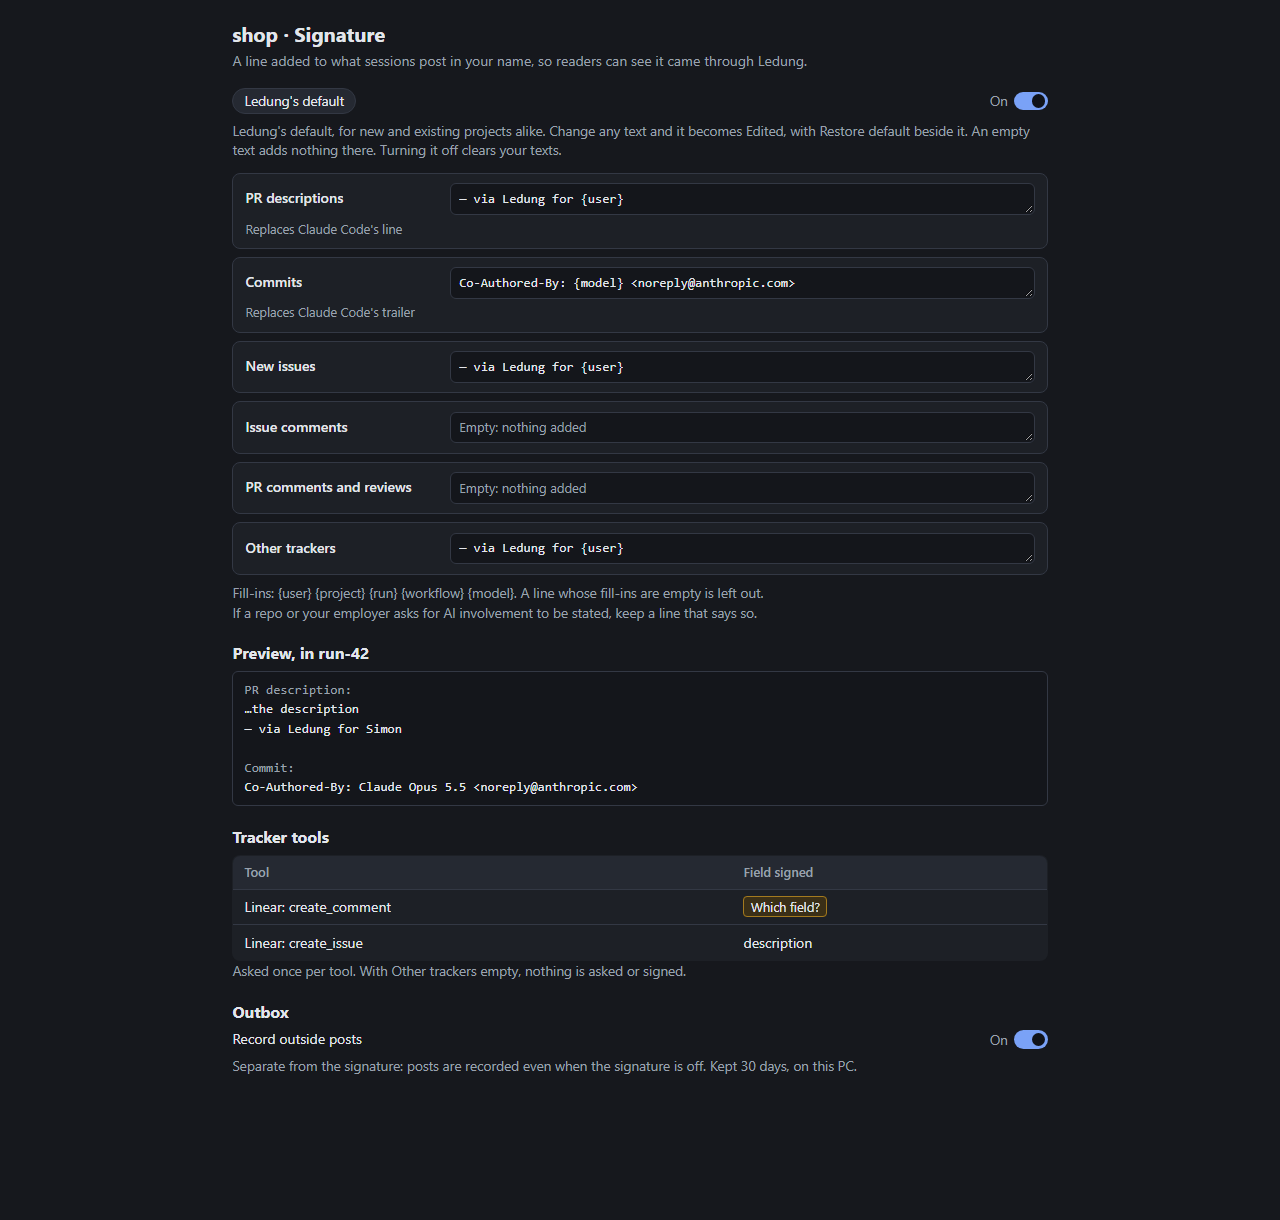
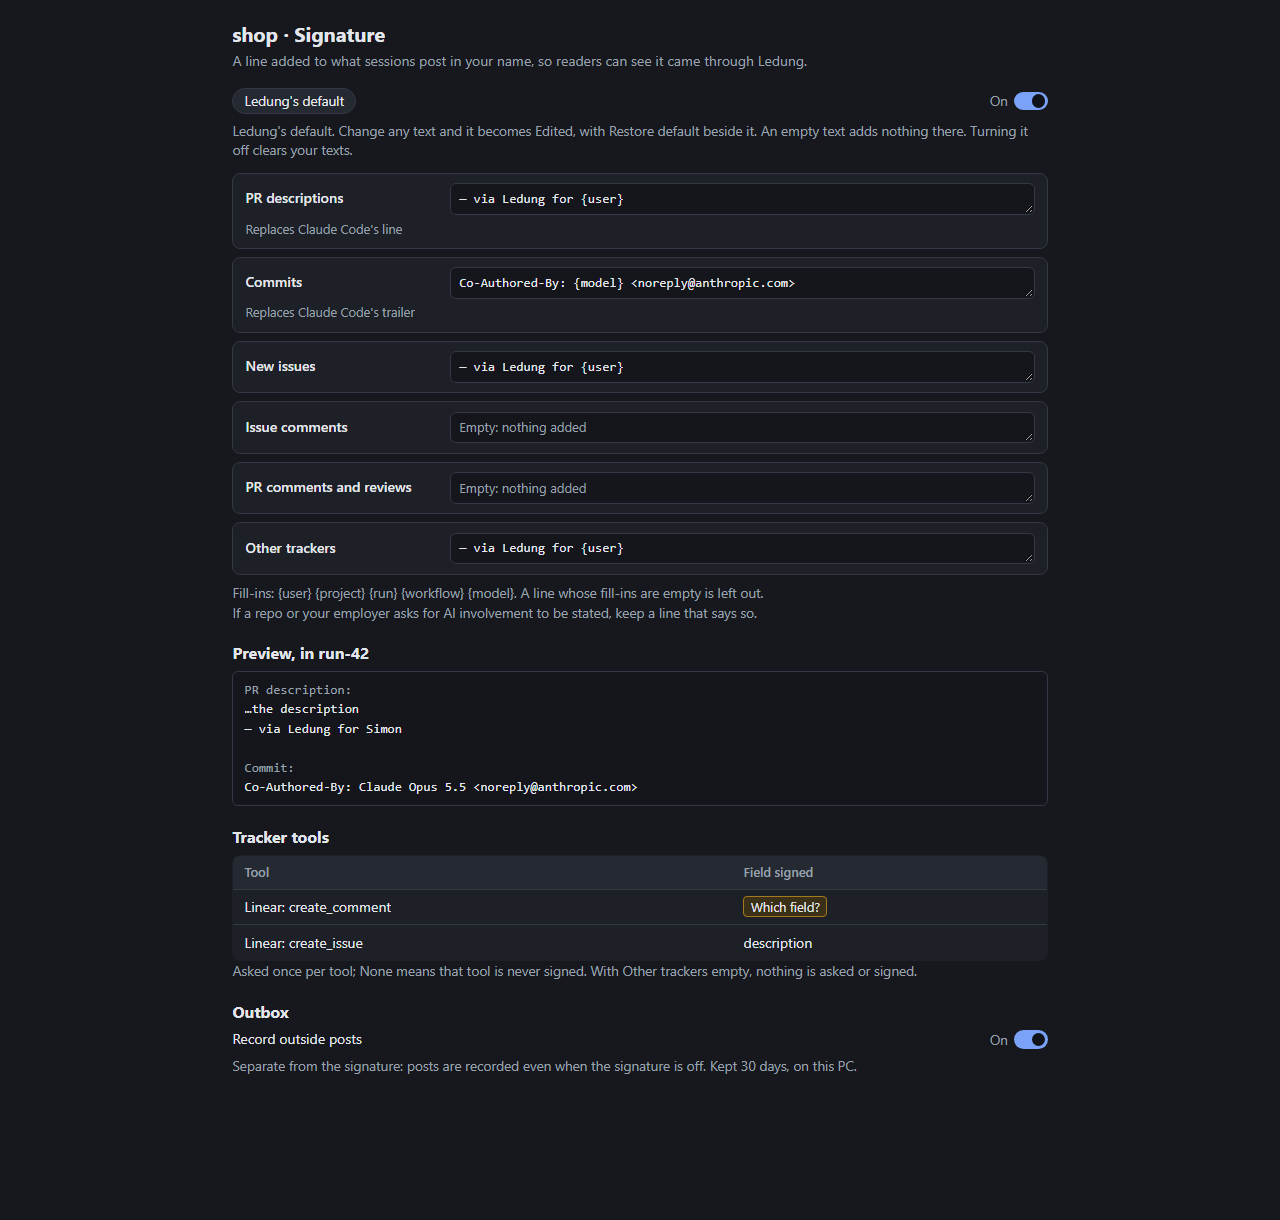
Design #513: open choice 6 removed, one rule for projects without a setting
The manager's final revision for Simon's two decisions: open choice 6
removed and the rest renumbered; existing and new projects no longer
handled apart (a project with no setting uses Ledung's default); the
design says every project's PRs and new issues get Ledung's line after
the update, and a project that shouldn't is switched Off or edited;
a tracker tool's "None" means never signed. Settings mock-up and the
1280 and 390 px screenshots retaken (dark).

Changelog: none

Changed region(s): [[0.25, 0.0934, 0.8125, 0.1246], [0.2812, 0.7787, 0.7188, 0.8098], [0.1875, 0.0934, 0.2188, 0.1246]]

diff --git a/docs/steps/project-signature/settings-mock.html b/docs/steps/project-signature/settings-mock.html
@@ -51,7 +51,7 @@ body.off .place { opacity:.5; }
 <p class="sub">A line added to what sessions post in your name, so readers can see it came through Ledung.</p>
 
 <div class="top"><span class="state">Ledung's default</span><span class="switch"><span class="onoff">On</span><span class="track"></span></span></div>
-<p class="hint onlyon">Ledung's default, for new and existing projects alike. Change any text and it becomes Edited, with Restore default beside it. An empty text adds nothing there. Turning it off clears your texts.</p>
+<p class="hint onlyon">Ledung's default. Change any text and it becomes Edited, with Restore default beside it. An empty text adds nothing there. Turning it off clears your texts.</p>
 <p class="hint offnote">Off: no signature anywhere, Claude Code's lines included. Turning it on fills in Ledung's default.</p>
 
 <div class="place"><label>PR descriptions</label><textarea rows="1">— via Ledung for {user}</textarea><span class="why">Replaces Claude Code's line</span></div>
@@ -75,7 +75,7 @@ Commit:
 <tr><td>Linear: create_comment</td><td><span class="wait">Which field?</span></td></tr>
 <tr><td>Linear: create_issue</td><td>description</td></tr>
 </tbody></table>
-<p class="hint">Asked once per tool. With Other trackers empty, nothing is asked or signed.</p>
+<p class="hint">Asked once per tool; None means that tool is never signed. With Other trackers empty, nothing is asked or signed.</p>
 </div>
 <h2>Outbox</h2>
 <div class="top keep"><span>Record outside posts</span><span class="switch"><span>On</span><span class="track keep"></span></span></div>

diff --git a/docs/steps/project-signature.md b/docs/steps/project-signature.md
@@ -18,7 +18,7 @@ In conversation with the manager, relayed with his words; they go into `docs/dec
 - **One preset, Ledung's, and a text per place:** "for the presets. Let's just have the Ledung preset, and it's editable to turn into custom. With some way to restore it to the default. With a small off somehow that disables the signature and erases the text in the box." (Later on Nov 27; this replaces the earlier Claude Code standard · Ledung standard · None · Custom.) An empty text means nothing in that place.
 - **Ledung's texts replace Claude Code's lines completely, and nothing is hardcoded:** "we're replacing it with a per project signature that the user can change." Both Claude Code lines come from the project's texts. "The co-authored by claude should work the same way, unless that steps on any of Anthropic's licence thingies. If the user wants to have it there, they can have it in the signature; otherwise they can change it." (Earlier, question #2434: "We should override Claude Code's signature.") What Anthropic's terms say is under "Anthropic's terms" below.
 - **Off is off:** "If switched off, it should be off." Off means no line anywhere, Claude's included.
-- **Every project gets Ledung's default, existing ones too:** on what was open choice 6, "I want it to go to Ledung's standard." This reverses the earlier "existing projects should remain as is, new projects use a Ledung standard" (which had replaced defaults by repo visibility).
+- **Every project gets Ledung's default, existing ones too:** on how existing projects should look, "I want it to go to Ledung's standard." This reverses the earlier "existing projects should remain as is, new projects use a Ledung standard" (which had replaced defaults by repo visibility).
 - **Other trackers get the same default line:** "I think that box should have the same Ledung default", so `— via Ledung for {user}`, still asked once per tool and project which field gets it.
 - **The Outbox records every outside post:** "I like the outbox changes we mentioned", about the manager's proposal: its own per-project setting, on by default, separate from the signature; the stand-in always there; tracker writes and board posts included; one line on what it can't see; local, 30 days.
 - **No `Ledung-Run` trailer:** "Drop it." (15:42, on the manager's recommendation). It only linked a commit to a run inside this Ledung, which outsiders can't open, and would sit in every Ledung user's run commits. Anyone who wants it can type `Ledung-Run: {run}` into their commit text.
@@ -69,13 +69,13 @@ It puts Ledung's line on PRs, new issues and other trackers' posts, and keeps th
 
 - **Default:** the texts are exactly Ledung's default. The section says "Ledung's default".
 - **Edited:** any change to any text makes the section say "Edited" (Simon's "custom"). Nothing else changes; the texts are simply what is saved. **Restore default** puts Ledung's default back in every box, after a "Replace your texts with Ledung's default?" confirmation, and is only shown while the texts are edited.
-- **Off:** a small switch at the top of the section. Switching it off empties every box and greys them out, and saves that: **no line anywhere**, no Ledung line, no Claude line, no marker, no tracker question. The Outbox still records: it is its own setting. The edited texts are not kept (Simon: "erases the text in the box"), so the switch says "Turning it off clears your texts." **Switching it on again** fills the boxes with Ledung's default (open choice 7).
+- **Off:** a small switch at the top of the section. Switching it off empties every box and greys them out, and saves that: **no line anywhere**, no Ledung line, no Claude line, no marker, no tracker question. The Outbox still records: it is its own setting. The edited texts are not kept (Simon: "erases the text in the box"), so the switch says "Turning it off clears your texts." **Switching it on again** fills the boxes with Ledung's default (open choice 6).
 
 There is no Claude Code preset and no None preset: Off is the None, and Claude's own lines are just text a person can type into the boxes.
 
 **Fill-ins:** `{user}` (Ledung's user name), `{project}` (the project's name), `{run}` (`run-179`), `{workflow}` (the flow's name) and `{model}` (the session's model as Claude Code names it, `Claude Opus 5.5`). Outside a run, the run fill-ins are empty, and a line left empty by them is dropped. Ledung's default no longer uses `{run}` or `{workflow}`; they stay as fill-ins because they cost nothing and a person may want them in their own text, though a reader outside this Ledung can't open a run. Only these five exist: session titles, folder paths, account names and anything else private can't be put in a signature, because there is no fill-in for them. Every text is checked against the project's sensitive patterns on save, as board posts are. (`{steps}` went with the PR summary.)
 
-**Existing and new projects alike:** a project with no signature setting (every project that exists today, one made with New project or the Ledung Helper, one added to the config by hand) uses Ledung's default, and its section says "Ledung's default". Nothing is written to its settings until the person edits a text or switches Off. (So a later change to Ledung's default reaches the projects still on it, and only those.) With the trackers text set by default, each project's first use of a tracker's write tool now brings the one-time field question. So from the release that ships part 1, every project's PRs end with `— via Ledung for {user}` instead of Claude Code's "Generated with" line, and its commits carry the default trailer as Ledung sets it. The changelog bullet says so plainly, because it changes what existing projects post.
+**A project with no signature setting uses Ledung's default:** every project that exists today, one made with New project or the Ledung Helper, and one added to the config by hand. Its section says "Ledung's default", and nothing is written to its settings until the person edits a text or switches Off, so a later change to Ledung's default reaches the projects still on it. **After the update, every project's PRs and new issues get Ledung's line instead of Claude's**, and commits the default trailer as Ledung sets it; a project that shouldn't carry the line is switched Off or has its texts edited. The changelog bullet says so plainly. With the trackers text set by default, each project's first use of a tracker's write tool brings the one-time field question.
 
 **Where the settings live: the project's settings, not the workflow.** Whether and how a project signs is about the repo and who reads it, and it applies to work outside a run too. Saved like the other project settings, in the project's part of the config, so a work project's text can stay in `ledung.config.local.json`. A change reaches PR descriptions and commits for sessions started or resumed afterwards (Claude Code takes those at the start; part 1 checks whether a running session can be updated), and everything else on the next call.
 
@@ -135,7 +135,7 @@ Ledung's existing hook gets one more step for `mcp__*` tools of servers that are
 
 - **Which tools count as writes:** those not marked `readOnly` in the server's own tool list (`mcpServerStatus()`, which gives name, description and annotations, but no input schema), whose name or description says create, add, post, comment, reply, update, edit or delete. The same list decides both recording and signing.
 - **Recording, whatever the signature says:** a `PostToolUse` step writes a journal line for every such call while the project records: server, tool, the target's id, any URL found in the result, whether it was signed, the time. No body is kept.
-- **Signing, only when the other-trackers text isn't empty**, and only for a write tool with at least one string field. The first call of such a tool in a project goes through **unsigned**. The project's settings get a waiting item, with a small badge on the project: "Linear: create_comment. Which field gets the signature?", offering the call's string fields (`body`, `title`, …) and "None". The answer is kept per project and tool. Every later call has the text added to that field as the call passes (`PreToolUse`, the check-1 mechanism), and the server's own sign-in is untouched. See open choice 1 for asking during the call instead.
+- **Signing, only when the other-trackers text isn't empty**, and only for a write tool with at least one string field. The first call of such a tool in a project goes through **unsigned**. The project's settings get a waiting item, with a small badge on the project: "Linear: create_comment. Which field gets the signature?", offering the call's string fields (`body`, `title`, …) and "None", which means that tool is never signed. The answer is kept per project and tool. Every later call has the text added to that field as the call passes (`PreToolUse`, the check-1 mechanism), and the server's own sign-in is untouched. See open choice 1 for asking during the call instead.
 - **Fitting into the hook chain:** the signed input is worked out first. Every `allow` the chain returns afterwards (grants, rules, away mode) carries it as `updatedInput`, and an "ask" carries it too, so the person approves the signed text. A refusal stays a refusal. A signature is never added to a call that Ledung or the person would refuse, and a refused call isn't recorded, because nothing went out.
 - A failure in either step lets the call go through as it was, unsigned and unrecorded, with the reason in the journal.
 
@@ -194,7 +194,7 @@ Each part is its own PR, reviewed and approved on its own. Part 1 comes first: i
 
 | # | Part | Done when | Session time | Plan use |
 |---|---|---|---|---|
-| 1 | **Settings, Ledung's default and Claude Code's lines:** the Signature section (a text per place, Default / Edited, Restore default, the Off switch that empties the boxes, fill-ins with `{model}`, preview, sensitive check), Ledung's default for every project without a setting, existing ones included, `attribution` per session, the journal file. | First the two checks under "PR descriptions and commits". Then, in a throwaway Ledung with Haiku: a project that existed before (no signature setting) and a new one both get Ledung's default: the PR ends with `— via Ledung for …` and no Claude line, and the commit carries `Co-Authored-By: Claude Haiku …` and nothing else, with no setting written to the config; switched Off, neither has any line and the boxes are empty; an edited text shows up as typed; Restore default brings back the default texts. The person's own Claude Code settings file is unchanged. Settings work at 390 px. | 60–90 min | medium: one build session plus review |
+| 1 | **Settings, Ledung's default and Claude Code's lines:** the Signature section (a text per place, Default / Edited, Restore default, the Off switch that empties the boxes, fill-ins with `{model}`, preview, sensitive check), Ledung's default for every project without a setting, `attribution` per session, the journal file. | First the two checks under "PR descriptions and commits". Then, in a throwaway Ledung with Haiku: a project with no signature setting gets Ledung's default: the PR ends with `— via Ledung for …` and no Claude line, and the commit carries `Co-Authored-By: Claude Haiku …` and nothing else, with no setting written to the config; switched Off, neither has any line and the boxes are empty; an edited text shows up as typed; Restore default brings back the default texts. The person's own Claude Code settings file is unchanged. Settings work at 390 px. | 60–90 min | medium: one build session plus review |
 | 2 | **The stand-in `gh`** (local sessions): on `PATH` in every local session, recording the listed commands and writing `gh api` calls, signing the four commands from all three body sources when a text applies, the marker and its check, the silent fallback, journal lines. | Tests cover each command and body source, pass-through (same output and exit code) for the everyday `gh` calls, a recorded-only call passing unchanged, `pr create` and edits left unsigned, `gh api` reads not recorded, and the fallback (missing session file, broken `gh.mjs`, Node not starting, journal not writable). A throwaway Ledung on Windows signs a real issue and comment in a throwaway repo from Git Bash; a repeated post isn't signed twice. One run on a Mac. | ≈ 105 min | medium |
 | 3 | **Other trackers:** picking out write tools, recording every write (`PostToolUse`), the one-time field question, the signing step and how it fits the chain, the repeat check without a marker. | The check-1 tracker server, under a throwaway Ledung, asks once and signs every later call. A read-only tool is never touched. A refused call stays refused. A repeated call isn't signed twice. With Ledung's default, the signed field gets `— via Ledung for …`. With an empty trackers text, nothing is asked or signed, but writes are still recorded. | 60–90 min | medium |
 | 4 | **Outbox:** database entry, Ledung's board posts added, the 30-day trim, list, filters, the Signed column, the line on what it can't see, the page at both widths. | It lists parts 2–3's posts and the board's, signed and unsigned, with links, per project and run; a project with the signature Off is still listed; with recording off, nothing new appears; an entry older than 30 days is gone; it works at 1280 and 390 px (dark-mode screenshots beside this mock-up). | ≈ 75 min | medium (page and screenshots) |
@@ -219,7 +219,6 @@ About 5 to 6 hours of session time in all, in four PRs: about 30 minutes more th
 5. **Where the Outbox lives.**
    - **(a) A sidebar entry next to runs, as in the mock-up (recommended):** one place across projects, with filters.
    - (b) A tab in each project's settings.
-6. **How an existing project shows in the Signature section: decided.** Simon, 2026-11-27: "I want it to go to Ledung's standard." An existing project shows and gets Ledung's default like a new one (see "Existing and new projects alike"). The number is kept so earlier references still fit.
-7. **Switching Off back on.** Off has already erased the texts.
+6. **Switching Off back on.** Off has already erased the texts.
    - **(a) The boxes fill with Ledung's default (recommended):** on means signed, and "on with every box empty" would be a second Off. Editing from there is the same as always.
    - (b) The boxes stay empty until the person types or presses Restore default: nothing appears that the person didn't put there, but until then on behaves like Off.
